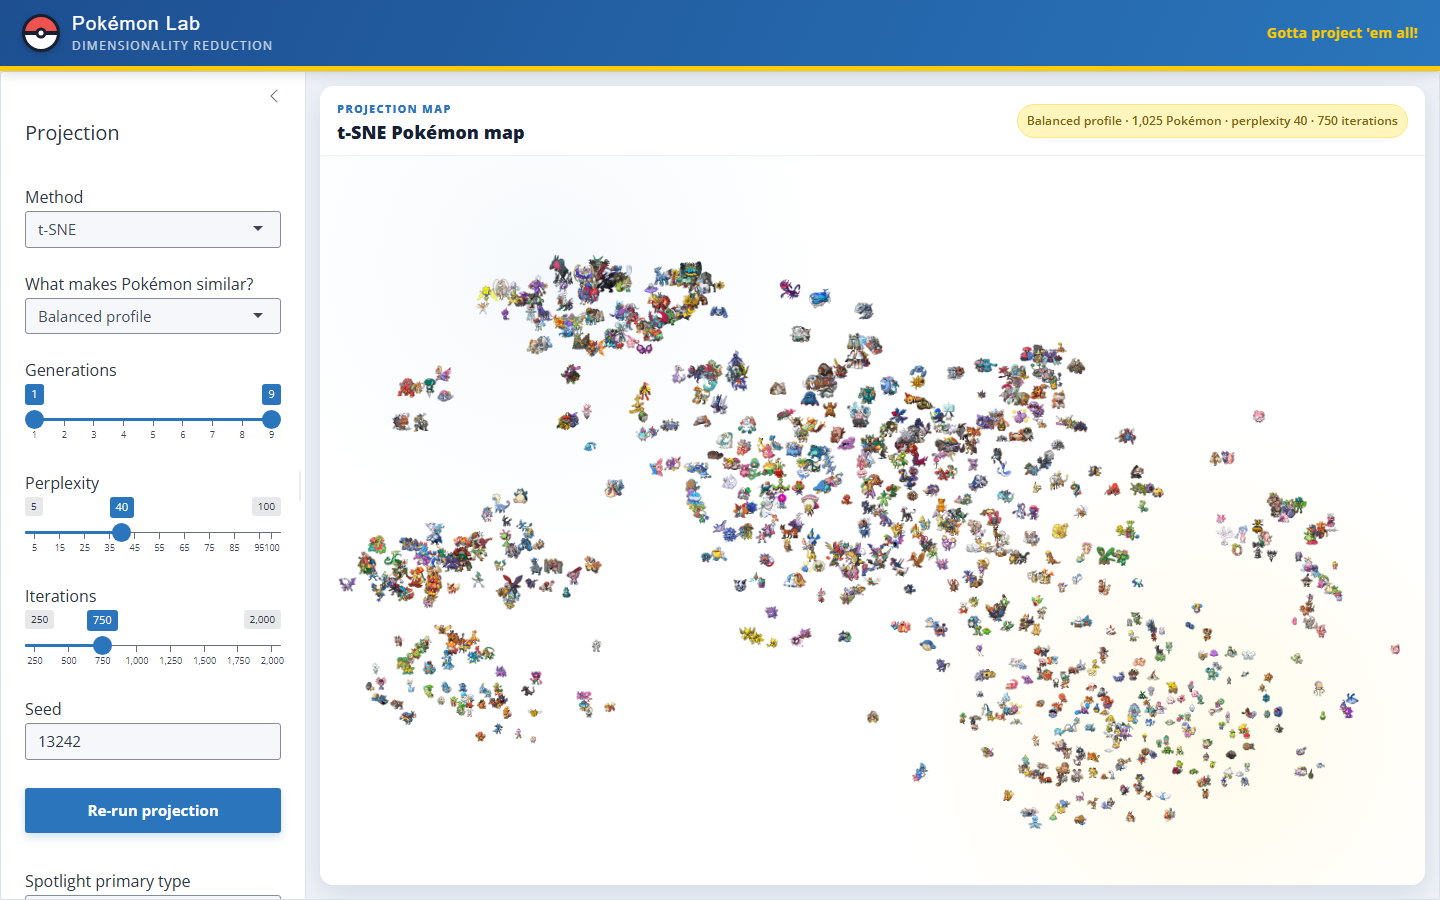
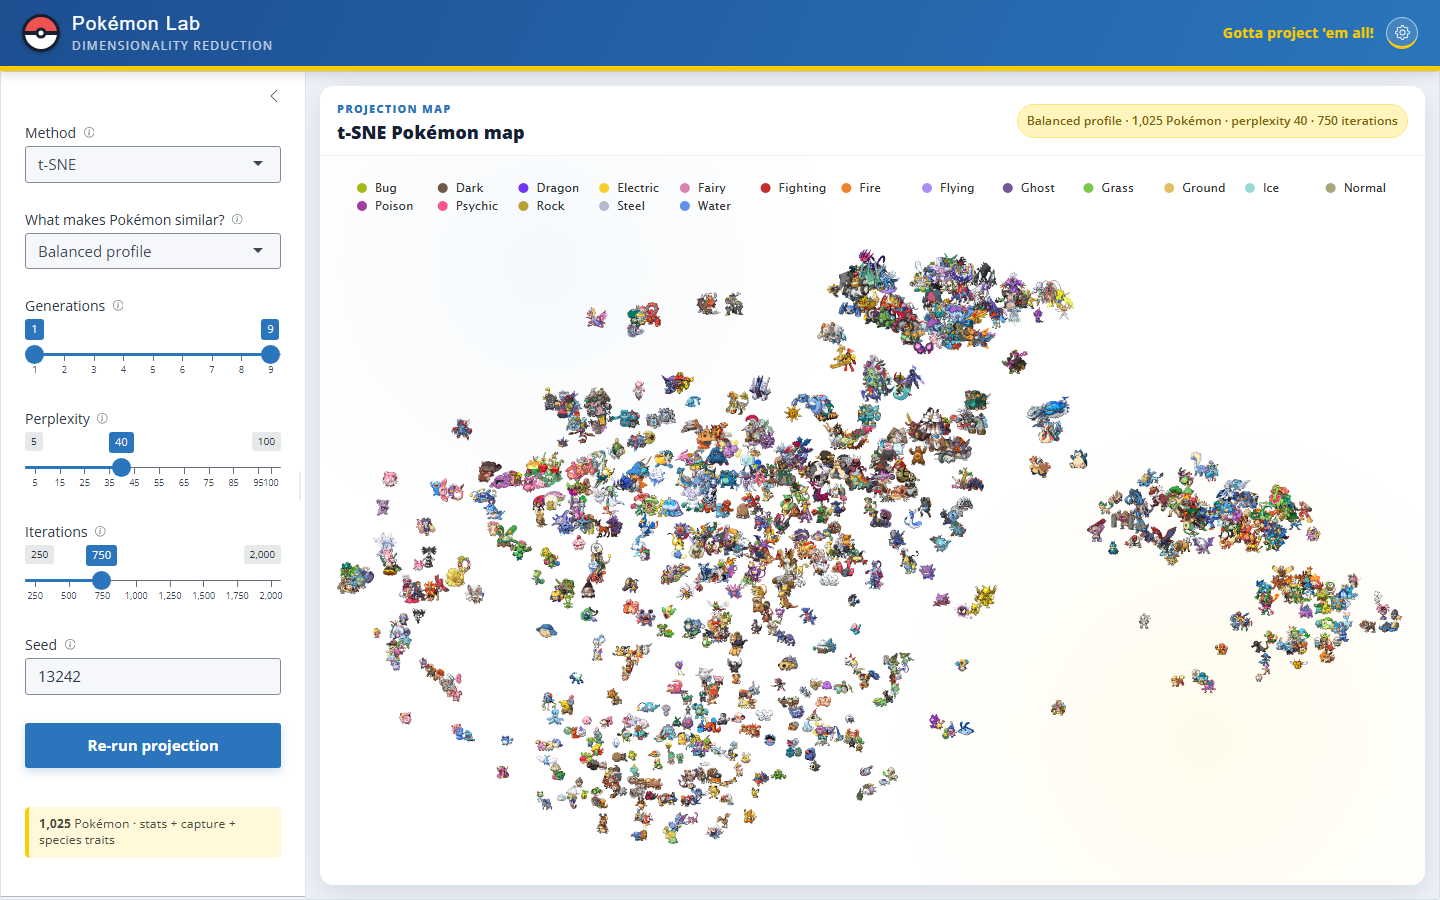
Separate Pokémon similarity from type highlighting

diff --git a/pokemon-dimensionality-reduction/styles.css b/pokemon-dimensionality-reduction/styles.css
@@ -196,17 +196,6 @@ body {
   background: var(--pokemon-blue-dark);
 }
 
-.pokemon-sidebar-note {
-  margin: 3px 0 14px;
-  padding: 9px 10px;
-  border-left: 4px solid var(--pokemon-yellow);
-  border-radius: 5px;
-  background: #fff9d9;
-  color: #4a4a3f;
-  font-size: 0.78rem;
-  line-height: 1.35;
-}
-
 .pokemon-card {
   height: 100%;
   border: 0 !important;

diff --git a/pokemon-dimensionality-reduction/readme.md b/pokemon-dimensionality-reduction/readme.md
@@ -1,6 +1,6 @@
 ## How it works
 
-The app builds a mixed-data feature matrix from the maintained PokeAPI tables. It combines morphology, battle stats, capture and breeding traits, binary species flags, Pokémon types, egg groups, growth rate, body color, body shape, and habitat.
+The app builds a mixed-data feature matrix from the maintained PokeAPI tables. It combines morphology, battle stats, capture and breeding traits, binary species flags, egg groups, growth rate, body color, body shape, and habitat. Pokémon type is deliberately excluded from the projection and used only to interpret the resulting map.
 
 ### Preprocessing
 
@@ -8,16 +8,18 @@ The feature space is prepared deliberately for PCA, t-SNE, and UMAP:
 
 - **Continuous variables** such as height, weight, battle stats, capture rate, happiness, hatch counter, and female ratio are median-imputed and standardized.
 - **Binary variables** such as legendary, mythical, baby, genderless, and form/gender flags stay as **0/1**. Rare flags are not standardized, because doing so could give a rare `1` an artificially huge z-score.
-- **Nominal variables** such as type, egg group, growth rate, color, shape, and habitat are one-hot encoded as **0/1** indicators.
+- **Nominal variables** such as egg group, growth rate, color, shape, and habitat are one-hot encoded as **0/1** indicators.
 - Feature blocks are divided by `sqrt(number of columns in the block)`. This prevents a categorical block from dominating Euclidean distance simply because it expands into many dummy columns.
 
 The block weights are explicit in `prepare_data.R` and all default to `1`, so the preprocessing is easy to inspect or tune later.
 
 First choose what **similarity** should mean. The balanced recipe gives every
 semantic block the same total weight. The other recipes emphasize battle and
-morphology, Pokémon types, or breeding and ecological traits. Custom weights
-make this definition explicit: a zero removes a block and larger values give it
-more influence over pairwise distances.
+morphology or breeding and ecological traits. Custom weights make this
+definition explicit: a zero removes a block and larger values give it more
+influence over pairwise distances. Type never enters this calculation, so the
+type colors can reveal structure without forcing Pokémon of the same type to be
+neighbors.
 
 Then choose a projection method and change its main parameters:
 
@@ -37,7 +39,8 @@ marker. Hover a Pokémon to see its official artwork, types, generation, size,
 battle stats, capture rate, happiness, growth rate, habitat, hatch counter, and
 legendary/mythical status.
 
-Use **Spotlight primary type** after a projection to emphasize one type without
+The legend above the map uses primary type only as an interpretive overlay.
+Hover a legend item to emphasize its group without
 recalculating or moving the map. The colored halos reproduce the type-oriented
 reading of the original Pokémon flexdashboard while keeping every Pokémon
 visible in the common projection.
